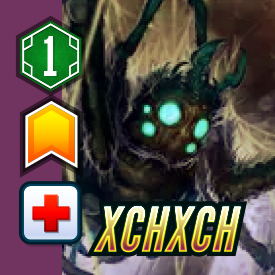
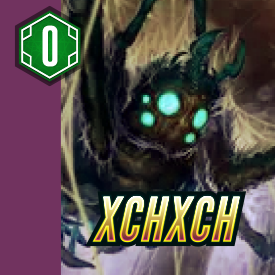
SPIDERS: Boss cheaper but not as tough and influential

diff --git a/server/classes/factions/Spiders.js b/server/classes/factions/Spiders.js
@@ -79,13 +79,13 @@ class Spiders extends Faction {
                 name: "Xchxch",
                 type: 'champion',
                 basic: false,
-                influence: 1,
+                influence: 0,
                 attack: [],
                 //deadly: true,
                 flipped: false,
-                toughness: true,
+                //toughness: true,
                 //firstStrike: true,
-                cost: 1,
+                cost: 0,
                 killed: false,
                 onDeploy: 'deployXchxchWeb',
                 //onMove: 'deployXchxchWeb',
